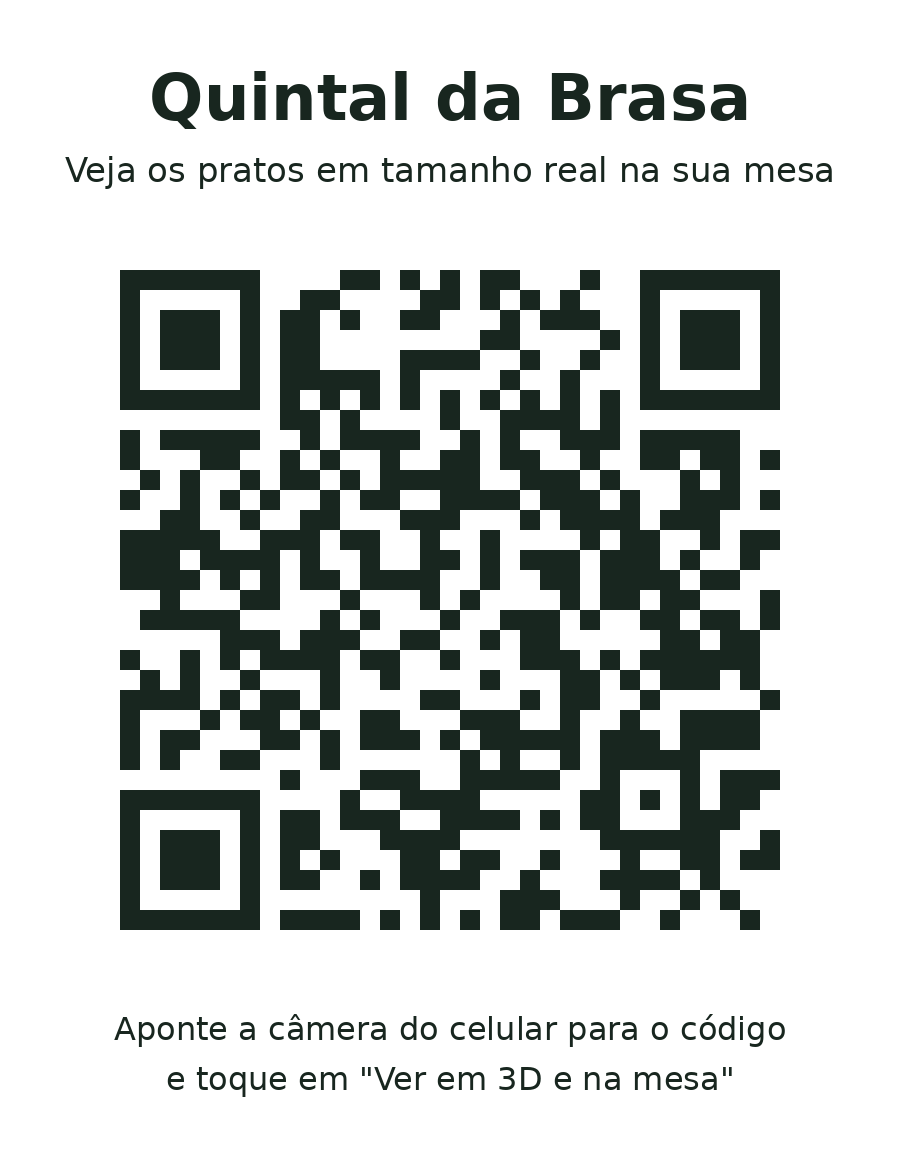
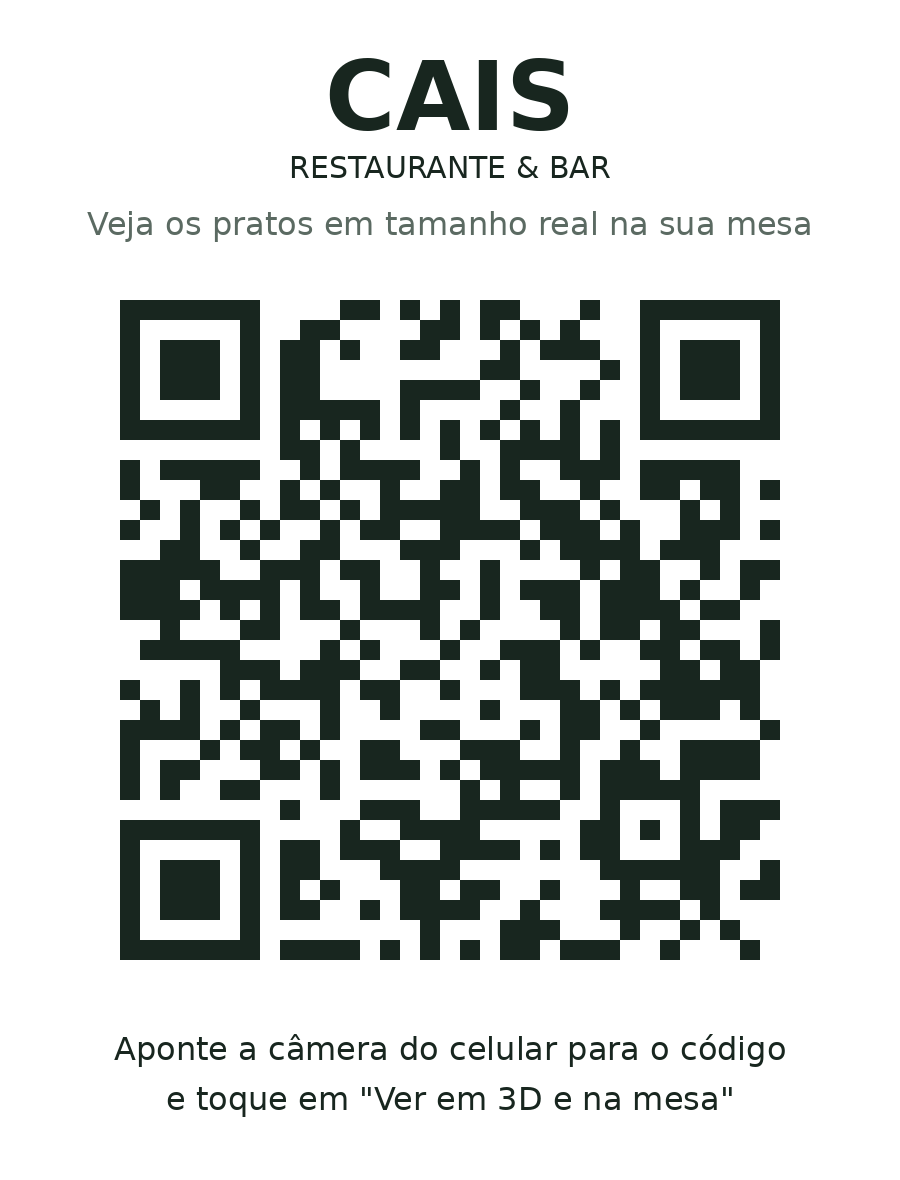
Renomeia para CAIS Restaurante & Bar
Claude-Session: https://claude.ai/code/session_0112r8JQetKEe3pjyZHpNiVJ

Changed region(s): [[0.0622, 0.031, 0.9333, 0.8379], [0.1244, 0.869, 0.8711, 0.9621], [0.28, 0.931, 0.3111, 0.9621]]

diff --git a/index.html b/index.html
@@ -5,7 +5,7 @@
 <meta name="viewport" content="width=device-width, initial-scale=1, viewport-fit=cover">
 </head>
 <body>
-<title>Cardápio na Mesa</title>
+<title>CAIS Restaurante & Bar</title>
 <meta name="claude:viewport-fit-sides" content="cover">
 <link rel="preconnect" href="https://fonts.googleapis.com">
 <link rel="stylesheet" href="https://fonts.googleapis.com/css2?family=Bricolage+Grotesque:opsz,wght@12..96,500;12..96,700&family=Instrument+Sans:wght@400;500;600&family=JetBrains+Mono:wght@500&display=swap">
@@ -32,6 +32,7 @@ body { background: var(--bg); color: var(--ink); font: 400 16px/1.5 var(--body);
 header { display: flex; align-items: end; justify-content: space-between; gap: 12px; flex-wrap: wrap; padding-bottom: 18px }
 .brand h1 { font: 700 clamp(28px, 5vw, 40px)/1 var(--display); margin: 0; letter-spacing: -0.02em }
 .brand p { margin: 6px 0 0; color: var(--muted) }
+.brand h1 .sub { font: 500 clamp(15px, 2.4vw, 19px)/1 var(--body); letter-spacing: .14em; text-transform: uppercase; color: var(--muted); margin-left: 6px; white-space: nowrap }
 .mesa { font: 500 13px/1 var(--mono); border: 1px solid var(--line); background: var(--surface); padding: 8px 12px; border-radius: 999px }
 
 .grid { display: grid; grid-template-columns: minmax(0, 1fr); gap: 24px }
@@ -83,7 +84,7 @@ footer { margin-top: 28px; font-size: 13px; color: var(--muted) }
 <div class="wrap">
   <header>
     <div class="brand">
-      <h1>Quintal da Brasa</h1>
+      <h1>CAIS <span class="sub">restaurante &amp; bar</span></h1>
       <p>Veja cada prato em 3D, no tamanho real, em cima da sua mesa.</p>
     </div>
     <span class="mesa" id="mesa">Mesa 12</span>
